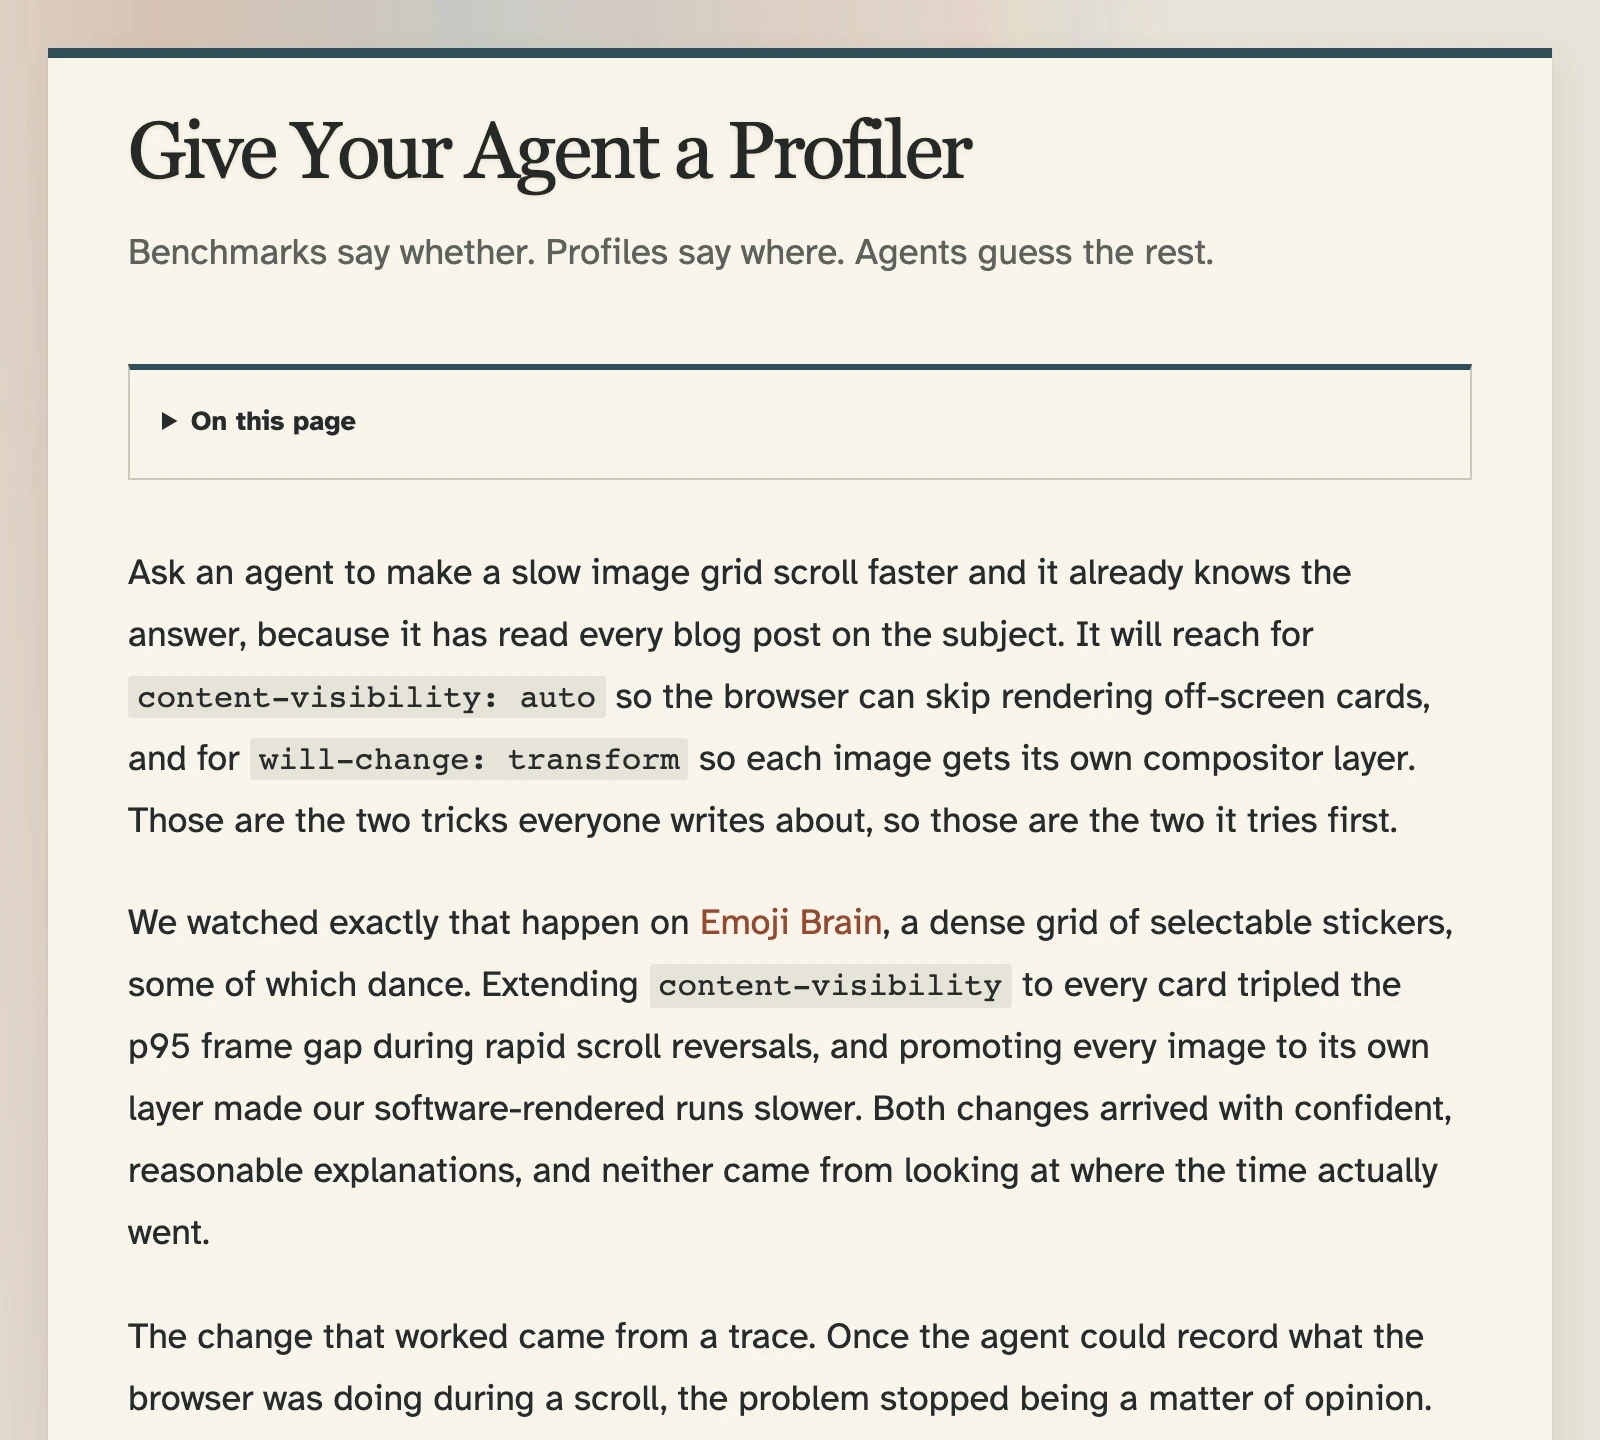
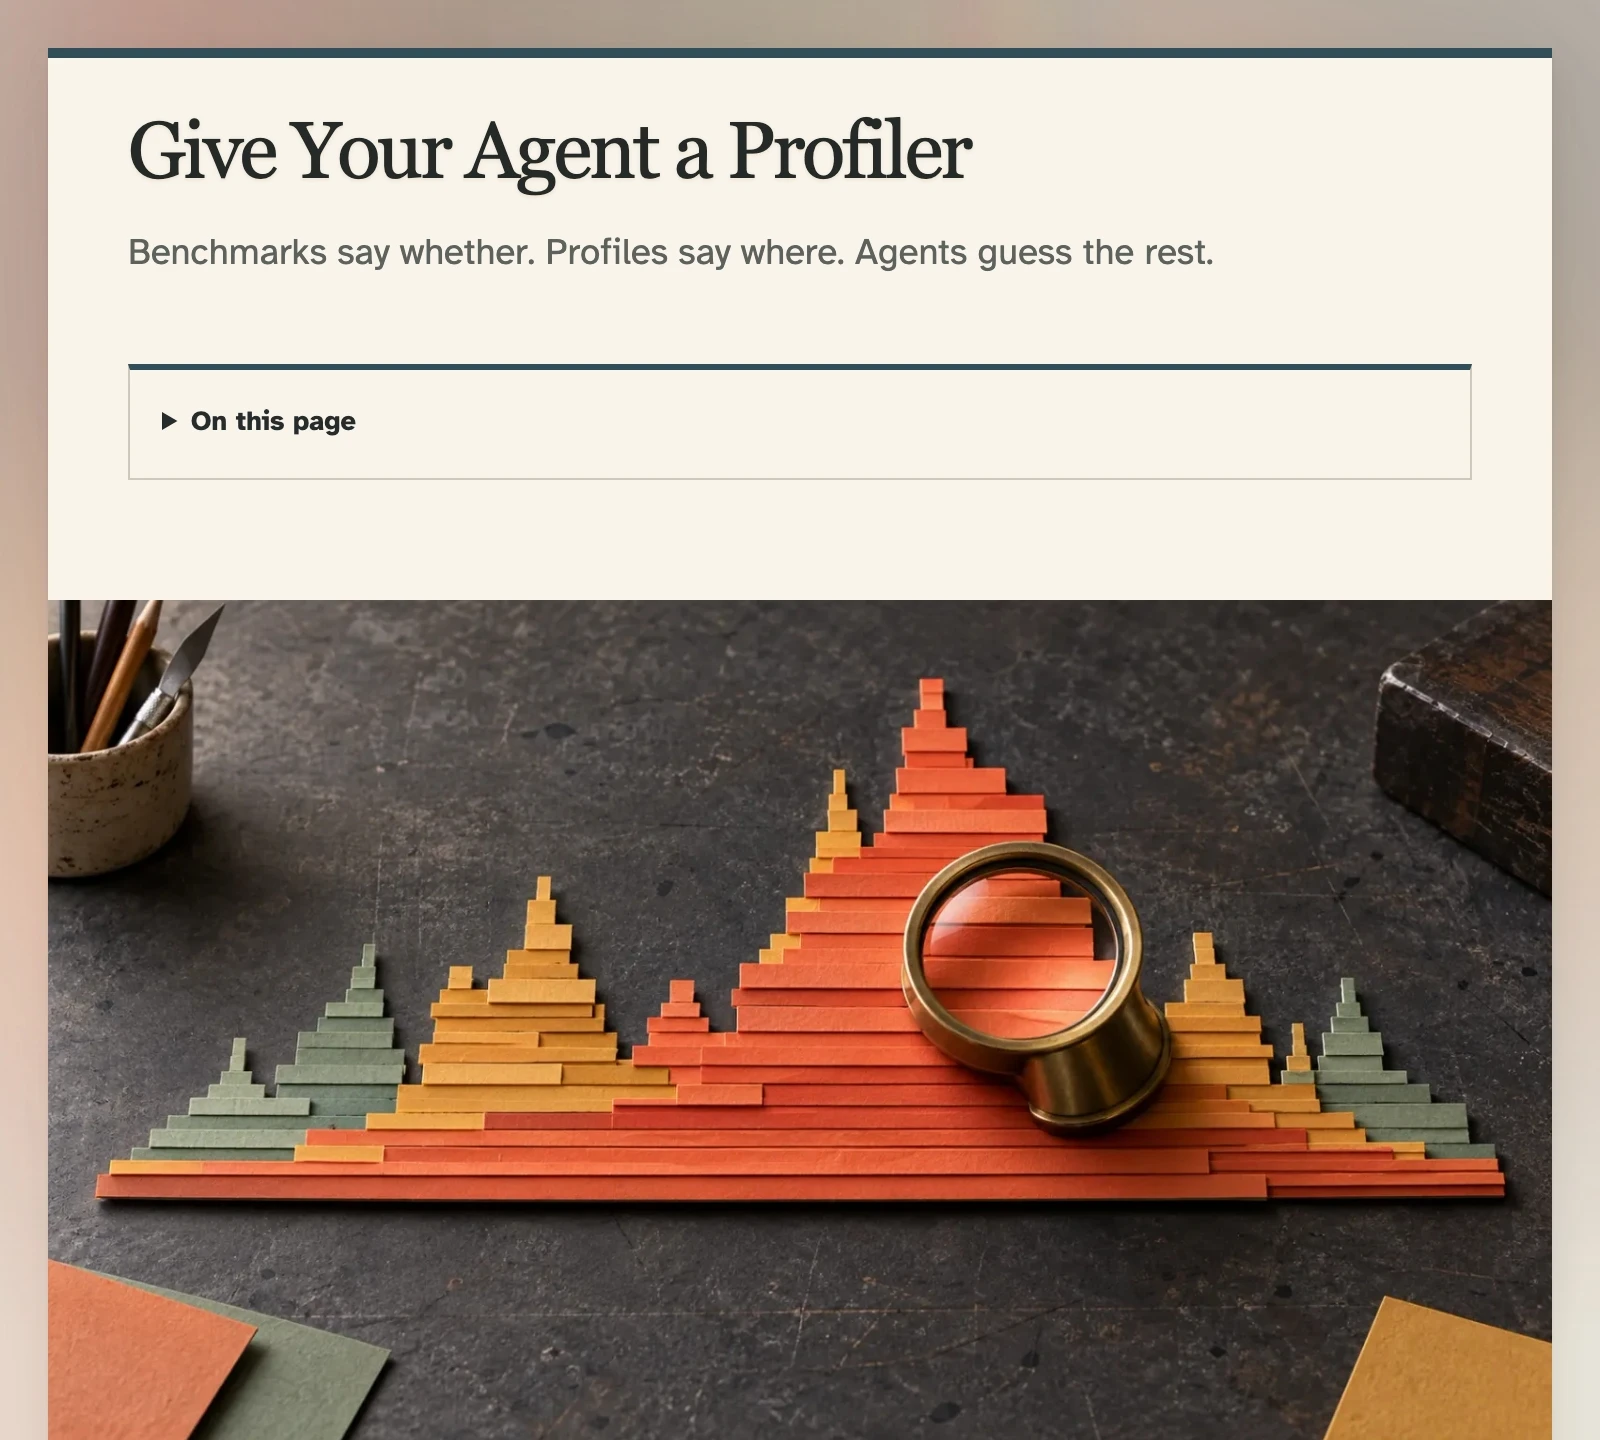
Add profiler hero artwork and widen article comments

diff --git a/src/layouts/post-paper.css b/src/layouts/post-paper.css
@@ -19,10 +19,12 @@
 .post-page .banner-wrapper img,.post-page .hero-image-wrapper img { inline-size:100%; block-size:auto; max-block-size:none; object-fit:contain; display:block; opacity:1; filter:none; transform:none; margin:0; border:0; }
 .post-page .hero-credit { color:var(--paper-muted); padding:.6rem var(--sheet-pad) 0; font-size:.75rem; line-height:1.5; text-align:end; margin:0; }
 .post-page .hero-credit a { color:inherit; text-decoration:underline; }
-.post-page .comments-wrapper { background:var(--paper-sheet); border:1px solid var(--paper-line); box-shadow:var(--paper-shadow); margin:2rem auto; padding:1.5rem; max-inline-size:900px; inline-size:calc(100% - 2rem); }
+.post-page .comments-wrapper { background:var(--paper-sheet); border:1px solid var(--paper-line); box-shadow:var(--paper-shadow); margin:2rem auto; padding:clamp(.75rem,2vw,1.5rem); max-inline-size:1180px; inline-size:calc(100% - 3rem); }
+/* Utterances injects a 760px cap; let its frame use the available sheet width. */
+.post-page .comments-wrapper :is(.post-comments,.utterances,iframe.utterances-frame) { inline-size:100%; max-inline-size:none; }
 .post-page .loading-msg { color:var(--paper-muted); font-size:.9rem; }
 .post-page .share-counters { color:var(--paper-muted); margin-block:1.5rem; }
-@media(max-width:700px) { .post-page main.article { max-inline-size:calc(100% - 2rem); } }
+@media(max-width:700px) { .post-page main.article { max-inline-size:calc(100% - 2rem); } .post-page .comments-wrapper { inline-size:calc(100% - 2rem); } }
 @media(max-width:600px) { .post-page main.article { margin:1rem auto 2rem; --sheet-pad:1rem; padding:1.25rem var(--sheet-pad); } }
 @media print { .post-page main.article { box-shadow:none; border:0; padding:0; margin:0; } .post-page .comments-wrapper { display:none; } }
 .post-page .share-counters { flex-wrap:wrap; max-inline-size:100%; align-items:center; justify-content:center; gap:.5rem; }

diff --git a/src/components/Comments.tsx b/src/components/Comments.tsx
@@ -62,7 +62,7 @@ export const GitHubIssueComments = ({ path }: { path: string }) => {
       ref={ref}
       id="post-comments"
       style={{position: "relative"}}
-      className="post-comments utterances-frame relative"
+      className="post-comments relative"
       // style={{
       //   maxHeight: "70vh",
       //   overflowY: "auto",

diff --git a/src/content/posts/2026-10-05--performance-tuning-with-an-agent/hero-art-direction.md b/src/content/posts/2026-10-05--performance-tuning-with-an-agent/hero-art-direction.md
@@ -1,0 +1,37 @@
+# Give Your Agent a Profiler — hero direction
+
+Thesis: instruments let agents locate the actual cost instead of optimizing from folklore.
+
+Mechanisms: benchmark, browser trace, flame graph, raster work, animated stickers, CPU stacks, GPU timeline.
+
+Tensions: a good explanation can accompany a regression; a quiet CPU can hide expensive raster work; removing unnecessary work beats speeding it up.
+
+Avoid: robot heads, neon brains, fake dashboards, invented measured charts, title text in artwork.
+
+Candidates:
+
+1. **Paper flame graph:** layered paper stacks and a loupe make the dominant cost visible. Square: concentrate on the broad branch and loupe.
+2. **Inspect the mechanism:** a lamp reveals one jammed clockwork cog. Square: keep the lamp's pool of light and cog together.
+3. **Find the path:** a compass and layered contour landscape expose a hidden ravine. Square: simplify terrain around the compass and blockage.
+
+Generation: built-in image generator. Selected Paper flame graph for its direct connection to profiling and legibility at thumbnail size. Clockwork is credible but busier; terrain is evocative but less direct. The chart is conceptual illustration, not a measured trace.
+
+Final assets: wide.webp 1672x941; square.webp 1254x1254, independently generated from the wide reference; hero-icon-200.webp is a 200px downsample of the square. Original generations remain in the generator output directory. No upscaling.
+
+## Square prompt
+
+Create a fresh square companion image to the referenced wide editorial hero, not a center crop. Preserve the tactile flame graph made of horizontal layered cut-paper strips, charcoal printmaker's stone table, coral-orange dominant branch, ochre and muted sage smaller branches, and the brass inspection loupe showing the broad orange branch. Compose a single compact stepped silhouette with one broad orange peak and only two small supporting branches; the loupe large and clear, placed over the orange paper near the lower middle-right. Reduce peripheral table props completely; no cup, knives, boxes or loose sheets. Keep the orange peak and the loupe fully inside generous square margins. Mature tactile photographed paper sculpture, real cut edges, natural directional light and readable shadows. Square 1:1, request 2048x2048 native resolution if available. Must read at 96px. No words, letters, numbers, chart labels, fake measured values, logos, watermark, borders, baked-in title.
+
+## Wide prompts
+
+### Candidate 1
+
+Editorial wide hero illustration for a technical essay about profiling: measurement reveals where a program spends its time, replacing confident guesses. A sculptural flame graph made from stacked, uneven horizontal strips of thick colored paper, arranged in a branching stepped silhouette on a charcoal-grey printmaker's table. One broad coral-orange branch dominates, small ochre and muted sage branches surround it, a simple brass inspection loupe rests over the broad branch and makes that costly branch the unmistakable focal point. Sophisticated tactile paper sculpture photographed nearly straight on, crisp layered cut edges and real subtle shadows, restrained warm highlights, beautiful editorial composition, no graphs claiming exact results. Wide 16:9 with all essential objects central, survive shallow 2.25:1 crop, generous space at edges. Not a dashboard. No text, labels, numerals, logos, robots, glowing brains, neon, generic circuitry, borders or baked-in title.
+
+### Candidate 2
+
+Editorial wide hero photograph for a technical essay about how a profiler lets an agent find the real bottleneck instead of guessing. A single open vintage mechanical clockwork assembly on a cool pale stone workshop bench, a small inspection lamp shines a narrow pool of warm light onto one visibly jammed oversized cog; the other brushed metal gears recede into soft neutral shade. One clear problem and one instrument making it visible. Rich olive enamel housing, steel and warm brass with one copper accent, tactile wear, soft daylight, mature restrained editorial object photography, believable mechanical relationships, sharp central assembly with ample breathing room. Landscape 16:9; central mechanism survives a shallow 2.25:1 crop. No people, hands, letters, numerals, logos, labels, fake screens, wires everywhere, futuristic decoration, title text, border or watermark.
+
+### Candidate 3
+
+Editorial wide hero image for a technical essay where a benchmark is the scoreboard but a profiler is the map: identify where the real problem lies before optimizing. An atmospheric cut-paper landscape photographed from above: layered moss-green and pale limestone contour hills, a cobalt-blue winding route that detours around an unnoticed deep rust-colored ravine, and a single brass drawing compass open on the terrain precisely at the blockage. Recognizable contour topography, beautiful torn-paper fibers and shallow natural interlayer shadows, sober artful cartographic collage, strong visual hierarchy, directional window light. The compass and ravine central, peripheral terrain simple, landscape 16:9 with crop-safe central story at 2.25:1. No letters, labels, numerals, legends, arrows, robot, hands, UI, code, borders or watermark.
